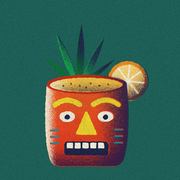
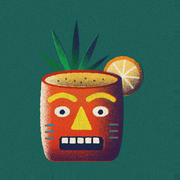
Puedo hacer como orden por porcentaje en todos los bares; chips alineados; ícono centrado
Claude-Session: https://claude.ai/code/session_01EMXnAxq4LMvieSwDYu5mi1

Changed region(s): [[0.2222, 0.1111, 0.8333, 0.9444], [0.2222, 0.2778, 0.2778, 0.3333], [0.2778, 0.3333, 0.3056, 0.3611]]

diff --git a/index.html b/index.html
@@ -143,14 +143,16 @@ body.clasico-d .dscroll h3{color:#F0B046}
 .ed textarea{min-height:120px;resize:none;border:1.5px dashed rgba(var(--fgrgb),.4);padding:9px;line-height:1.4}
 
 /* ---------- despensa ---------- */
-.mk-chips{position:absolute;left:0;right:0;top:calc(var(--top) + 52px);z-index:6;display:flex;gap:5px;padding:0 38px 0 22px;white-space:nowrap}
-.mk-chips button{height:30px;padding:0 9px;border:1.8px solid rgba(var(--fgrgb),.5);border-radius:999px;display:flex;align-items:center;background:transparent;font-family:var(--ruina);font-size:10px;letter-spacing:.5px;color:var(--fg);cursor:pointer;text-transform:uppercase}
+.mk-chips{position:absolute;left:0;right:0;top:calc(var(--top) + 52px);z-index:6;display:flex;gap:4px;padding:0;left:44px;right:44px;white-space:nowrap}
+.mk-chips button{height:30px;padding:0 8px;border:1.8px solid rgba(var(--fgrgb),.5);border-radius:999px;display:flex;align-items:center;background:transparent;font-family:var(--ruina);font-size:10px;letter-spacing:.5px;color:var(--fg);cursor:pointer;text-transform:uppercase}
 .mk-chips button.on{background:var(--fg);color:var(--bgc);border-color:var(--fg)}
 .mk-chips button i{font-style:normal;margin-left:5px;opacity:.7}
-.mk-chips button.pb{margin-left:auto;width:34px;padding:0;justify-content:center}
+.mk-chips button.pb{margin-left:auto;flex:none;width:34px;padding:0;justify-content:center}
 .mk-chips button.pb svg{width:17px;height:17px;fill:none;stroke:currentColor;stroke-width:1.9;stroke-linecap:round;stroke-linejoin:round}
-.bar[data-bar="mi"] .scroll{padding-top:calc(var(--top) + 108px)}
+.bar .scroll{padding-top:calc(var(--top) + 108px)}
 .mk-badge{position:absolute;top:2px;left:6px;height:22px;padding:0 9px;border-radius:999px;font-family:var(--ruina);font-size:11px;letter-spacing:.6px;display:flex;align-items:center;gap:4px;color:#fff;z-index:3}
+.mk-badge:not(.ok):not(.near){background:rgba(var(--fgrgb),.6)}
+.mk-chips button[data-ps].on:before{content:"↓ ";margin-right:4px}
 .mk-badge.ok{background:#3E9A4A}.mk-badge.near{background:#D58A1C}
 .row .mk-badge{position:static;display:inline-flex;height:17px;padding:0 7px;font-size:10px;margin-left:8px;vertical-align:2px}
 .mk-sec{grid-column:1/-1;font-family:var(--ruina);font-size:12px;letter-spacing:1px;color:var(--accent);margin:2px 0 -6px}
@@ -290,20 +292,25 @@ const missLbl=x=>x.map(i=>LBL[i]).join(' / ');
 function badge(d){
   if(!pantry.length) return '';
   const s=status(d); if(!s.total) return '';
+  if(ps&&s.miss.length>1) return `<span class="mk-badge">${s.have}/${s.total}</span>`;
   if(!s.miss.length) return `<span class="mk-badge ok">✓ ${s.have}/${s.total}</span>`;
   if(s.miss.length===1) return `<span class="mk-badge near">${s.have}/${s.total}</span>`;
   return '';
 }
-let mf='fav'; try{ const v=localStorage.getItem('tragos.mf'); if(['fav','mine','can'].includes(v)) mf=v; }catch(e){}
+let mf='fav'; try{ const v=localStorage.getItem('tragos.mf'); if(['fav','mine'].includes(v)) mf=v; }catch(e){}
+let ps=false; try{ ps=localStorage.getItem('tragos.ps')==='1'; }catch(e){}
+const pct=d=>{ const s=status(d); return s.total?s.have/s.total:0; };
+const byPct=l=>(ps&&pantry.length)?[...l].sort((a,b)=>pct(b)-pct(a)):l;
 function canLists(){
   const ready=[],near=[];
   DRINKS.forEach(d=>{ const s=status(d); if(!s.total) return; if(!s.miss.length) ready.push(d); else if(s.miss.length===1) near.push(d); });
   return {ready,near};
 }
 const PANBTN='<svg viewBox="0 0 24 24"><path d="M7 3h10v3H7zM6 6h12l1 4v9a2 2 0 0 1-2 2H7a2 2 0 0 1-2-2v-9z"/><path d="M5.5 12h13"/></svg>';
-function miChips(){
+function miChips(id){
   const n=pantry.length?canLists().ready.length:0;
-  return `<div class="mk-chips"><button data-mf="fav" class="${mf==='fav'?'on':''}">Favoritos</button><button data-mf="mine" class="${mf==='mine'?'on':''}">Mis recetas</button><button data-mf="can" class="${mf==='can'?'on':''}">Puedo hacer${n?`<i>${n}</i>`:''}</button><button class="pb" data-openpantry aria-label="Mi despensa">${PANBTN}</button></div>`;
+  const m=id==='mi'?`<button data-mf="fav" class="${mf==='fav'?'on':''}">Favoritos</button><button data-mf="mine" class="${mf==='mine'?'on':''}">Mis recetas</button>`:'';
+  return `<div class="mk-chips">${m}<button data-ps class="${ps?'on':''}">Puedo hacer${n?`<i>${n}</i>`:''}</button><button class="pb" data-openpantry aria-label="Mi despensa">${PANBTN}</button></div>`;
 }
 const tile = d => `<div class="tile" role="button" tabindex="0" data-id="${d.id}">${pic(d,'pic')}${badge(d)}<div class="${nmCls(d)}">${d.name}</div>${favBtn(d.id)}</div>`;
 const row  = d => `<div class="row" role="button" tabindex="0" data-id="${d.id}">${pic(d,'th')}<div class="tx"><b>${d.name}${badge(d)}</b><small>${sub(d)}</small></div>${favBtn(d.id)}</div>`;
@@ -320,25 +327,16 @@ function secList(parts){
 }
 const emptyMsg=(t,m,btn)=>`<div class="empty"><b>${t}</b>${m}${btn?'<br><button class="mk-btn" data-openpantry>ARMAR MI DESPENSA</button>':''}</div>`;
 function barContent(id){
-  if(id==='mi'){
-    if(mf==='mine'){ const l=DRINKS.filter(d=>d.custom); return l.length?listHtml(l):emptyMsg('Sin recetas propias','Abrí cualquier trago y tocá “+ Mi versión” para crear la tuya.'); }
-    if(mf==='can'){
-      if(!pantry.length) return emptyMsg('Tu despensa está vacía','Marcá lo que tenés en casa y te muestro qué tragos podés preparar.',true);
-      const {ready,near}=canLists();
-      if(!ready.length&&!near.length) return emptyMsg('Todavía no alcanza','Con lo que tenés no llegás a ningún trago. Sumá ingredientes a tu despensa.',true);
-      const parts=[]; if(ready.length) parts.push('LISTOS PARA PREPARAR',...ready); if(near.length) parts.push('CASI · TE FALTA 1',...near);
-      return secList(parts);
-    }
-  }
+  if(id==='mi' && mf==='mine'){ const l=DRINKS.filter(d=>d.custom); return l.length?listHtml(byPct(l)):emptyMsg('Sin recetas propias','Abrí cualquier trago y tocá “+ Mi versión” para crear la tuya.'); }
   const l = barDrinks(id);
   if(!l.length) return `<div class="empty"><b>Tu bar está vacío</b>Tocá el corazón de cualquier trago y queda guardado acá.<small>Deslizá para ver los otros bares →</small></div>`;
-  return listHtml(l);
+  return listHtml(byPct(l));
 }
 function render(){
   const keep = [...document.querySelectorAll('.scroll')].map(s=>s.scrollTop);
   $('#pager').innerHTML = BARS.map(b => `
     <section class="bar" data-bar="${b.id}">
-      <div class="scroll">${barContent(b.id)}</div>${b.id==='mi'?miChips():''}
+      <div class="scroll">${barContent(b.id)}</div>${miChips(b.id)}
       <div class="grain"></div>${frames(b.id)}
     </section>`).join('');
   document.querySelectorAll('.scroll').forEach((s,i)=>s.scrollTop = keep[i]||0);
@@ -497,6 +495,7 @@ function delCustom(id){
 document.addEventListener('keydown', e=>{ if(e.key==='Escape') closeSheet(); if((e.key==='Enter'||e.key===' ') && (e.target.classList?.contains('tile')||e.target.classList?.contains('row'))){ e.preventDefault(); openSheet(e.target.dataset.id, e.target);} });
 
 document.addEventListener('click', e=>{
+  if(e.target.closest('[data-ps]')){ if(!pantry.length){ openPantry(); return; } ps=!ps; try{ localStorage.setItem('tragos.ps',ps?'1':'0'); }catch(e){} render(); goTo(cur,false); return; }
   const mfb=e.target.closest('[data-mf]');
   if(mfb){ mf=mfb.dataset.mf; try{ localStorage.setItem('tragos.mf',mf); }catch(e){} render(); goTo(cur,false); return; }
   if(e.target.closest('[data-openpantry]')){ openPantry(); return; }

diff --git a/sw.js b/sw.js
@@ -1,4 +1,4 @@
-const C='tragos-v21';
+const C='tragos-v22';
 const FILES=['./','./index.html','./manifest.webmanifest','./icon-192.png','./icon-512.png','./icon-180.png','./assets/Ruina.ttf',
  ...['mi','tiki','clasico'].flatMap(b=>[0,1,2,3].map(f=>`./assets/marco/${b}_${f}.webp`)),
  ...['old-fashioned','mai-tai','pina-colada','painkiller','jungle-bird','daiquiri','negroni','margarita','martini','manhattan','mojito','aperol-spritz','whiskey-sour','espresso-martini','fernet-coca','cynar-pomelo','gancia-sprite'].map(d=>`./assets/drinks/${d}.webp`)];
